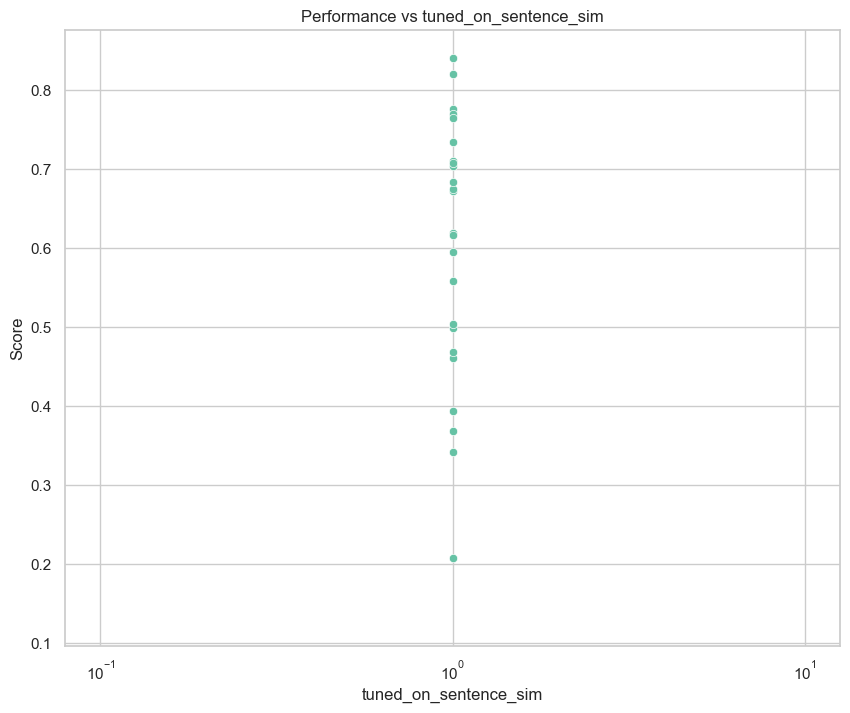
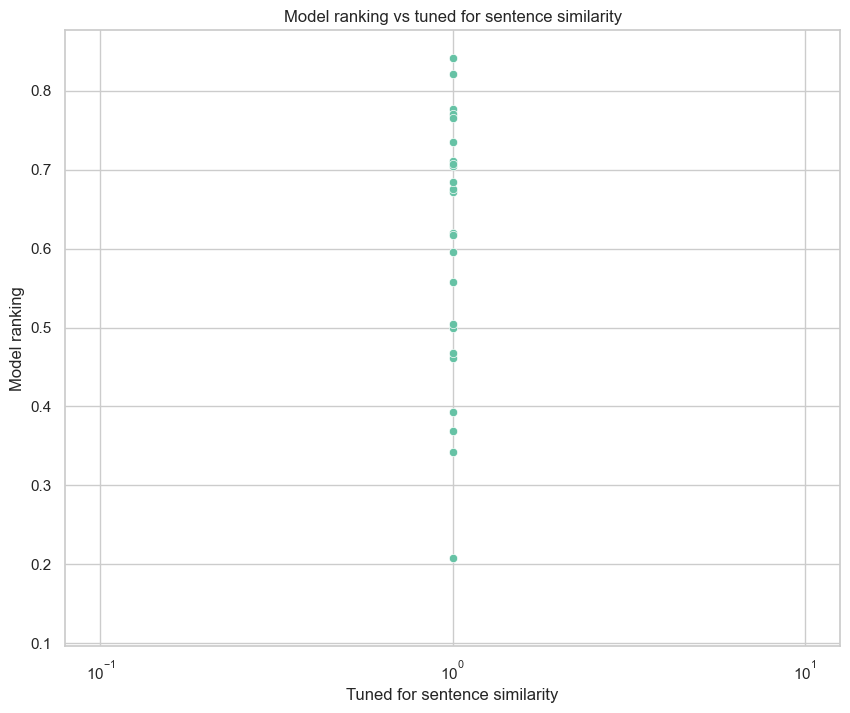
fix display names

diff --git a/script_mteb_french/results_analysis/performance_vs_characteristics.py b/script_mteb_french/results_analysis/performance_vs_characteristics.py
@@ -20,6 +20,18 @@ CHARACTERISTICS = {
     "tuned_on_sentence_sim": "numerical",
 }
 
+CHARACTERISTICS_DISPLAY_NAMES = {
+    "finetuned": "Finetuned vs pretrained",
+    "multilingual_or_french": "Language",
+    "number_params": "Model number of parameters",
+    "size_gb": "Model size",
+    "seq_len": "Max sequence length",
+    "embedding_dim": "Embedding dimension",
+    "model_type": "Model type",
+    "license": "License",
+    "tuned_on_sentence_sim": "Tuned for sentence similarity",
+}
+
 COLS_TO_KEEP_GLOBAL_CORRELATION = {
     "score": "Model ranking",
     "finetuned": "Finetuned vs pretrained",
@@ -98,13 +110,15 @@ def perfomance_vs_characteristic_plot(
     mode: str = "avg",
 ):
     data = prepare_data(results_df, characteristics_df, mode)
+    data[target_characteristic] = data[target_characteristic].apply(lambda x: COLS_TO_KEEP_GLOBAL_CORRELATION[x] if x in COLS_TO_KEEP_GLOBAL_CORRELATION else x)
     # Set seaborn style
     sns.set(style="whitegrid")
     sns.set_palette("Set2")
     plt.figure(figsize=(10, 8))
-    plt.title(f"Performance vs {target_characteristic}")
-    plt.xlabel(target_characteristic)
-    plt.ylabel("Score")
+    charac_display_name = CHARACTERISTICS_DISPLAY_NAMES[target_characteristic]
+    plt.title(f"Model ranking vs {charac_display_name.lower()}")
+    plt.xlabel(charac_display_name)
+    plt.ylabel("Model ranking")
     if characteristic_type == "categorical":
         sns.boxplot(data=data, x=target_characteristic, y="score")
     elif characteristic_type == "numerical":
